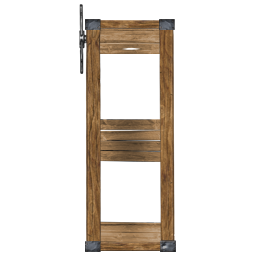
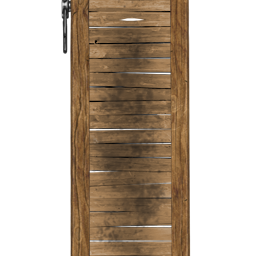
Medieval rack (#3386)
* Created WoodenRack Asset

Added Frame art
Added Color Layers
Added Dialog
Added Asset
Added Asset Extended Config (TODO)

* Added Restraint functionality & art, Fixes

* Added: 2layer stocks Fix: Priority Removed:Stocks2

TODO
Fix every single chain asset

* Updated Chains

* Uploaded all the needed assets. Mainly done

* Updated price

* Small fixes

* Removed wrong effect and format fixes

* Uppercase fix

* Removed Stains module. Renamed assets acordingly

diff --git a/BondageClub/Assets/Female3DCG/Female3DCG.js b/BondageClub/Assets/Female3DCG/Female3DCG.js
@@ -6197,11 +6197,11 @@ var AssetFemale3DCG = [
 				SetPose: ["BaseLower"],
 				Block: ["ItemAddon"],
 				Layer: [
-					{ Name: "Back", HasType: false, AllowColorize: false, AllowModuleTypes: ["f0"] },
-					{ Name: "NoBack", HasType: false, AllowColorize: false, AllowModuleTypes: ["f1"] },
-					{ Name: "BackBreaker", HasType: false, AllowColorize: false, AllowModuleTypes: ["f2"] },
+					{ Name: "Back", HasType: false, AllowColorize: false, AllowModuleTypes: ["f0", "f1"] },
+					{ Name: "HalfBack", HasType: false, AllowColorize: false, AllowModuleTypes: ["f2"] },
+					{ Name: "NoBack", HasType: false, AllowColorize: false, AllowModuleTypes: ["f3"], HasImage: false },
 					{ Name: "Frame", HasType: false, AllowColorize: false },
-					{ Name: "FrameStains", HasType: false, AllowModuleTypes: ["s1"] },
+					{ Name: "FrameStains", HasType: false, AllowModuleTypes: ["f1"] },
 					{ Name: "TopRopes", HasType: false, AllowModuleTypes: ["t1"], Priority: 50 },
 					{ Name: "TopRopesTight", HasType: false, CopyLayerColor: "TopRopes", AllowModuleTypes: ["t2"], Priority: 50 },
 					{ Name: "TopChains", HasType: false, AllowModuleTypes: ["t3"],Priority: 30 },

diff --git a/BondageClub/Assets/Female3DCG/Female3DCGExtended.js b/BondageClub/Assets/Female3DCG/Female3DCGExtended.js
@@ -2673,8 +2673,9 @@ var AssetFemale3DCGExtended = {
 							Name: "Frame", Key: "f",
 							Options: [
 								{}, // f0 - Normal
-								{}, // f1 - HalfBack
-								{}, // f2 - NoBack
+								{}, // f1 - Stained
+								{}, // f2 - HalfBack
+								{}, // f3 - NoBack
 							],
 					},	
 					{
@@ -2722,13 +2723,6 @@ var AssetFemale3DCGExtended = {
 										Effect: ["Prone", "Freeze", "Block", "BlockKneel", "Mounted"],
 									},
 								}, // t4 - ChainsTight
-							],
-					},
-					{
-							Name: "FrameStains", Key: "s",
-							Options: [
-							{}, // s0 - No
-							{}, // s1 - Stains
 							],
 					},
 					{
